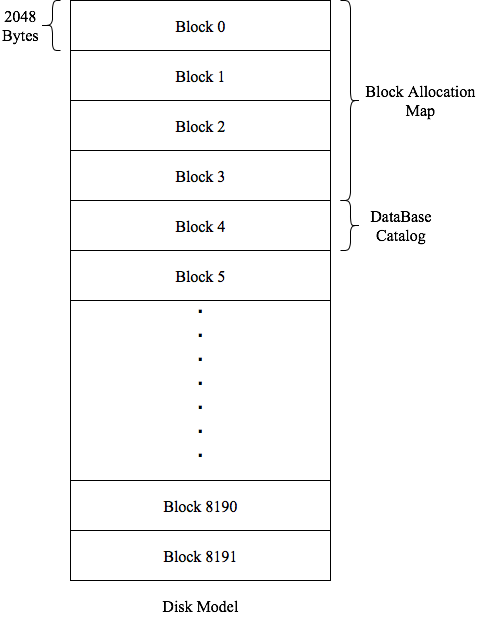
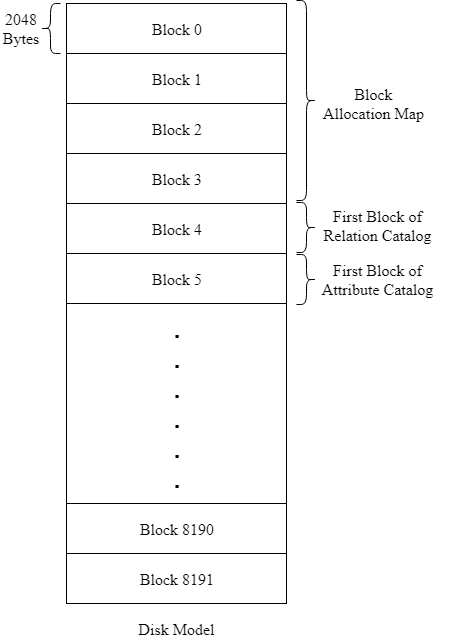
image change to new model

Changed region(s): [[0.0, 0.0, 0.9476, 1.0]]

diff --git a/storage-model1.html b/storage-model1.html
@@ -45,7 +45,7 @@
                 <h2>Disks Model</h2>
                 <p>Nitcbase assumes that disk is a sequence of blocks and a block is a sequence of bytes. The disk consists of 8192 blocks and a block is of 2048 bytes. Hence there is a total of 16MB of storage. Disk blocks are indexed from 0 to 8191. </p>
                 <p> Block# 0-3 are reserved for storing Block allocation map where as Block# 4 is for storing Database Catalog. Block allocation map tells us whether a particular block is free or occupied and requires one byte per each block. Hence a total of 8192/2048=4 blocks are required for Block allocation map. The following figure summarizes the disk structure. </p>
-                <center><img src="img/disk_model.png"></center>
+                <center><img src="img/disk_model1.png"></center>
                 
                 <p> Based on type of information stored in a block, a block can be of 5 types- 1. Record block, 2. Index block, 3.Database Catalog block, 4.Relation Catalog block, 5.Attribute catalog block.</p>
             </div>
@@ -54,7 +54,7 @@
                 <h2>Record block structure</h2>
                 <p> A database in Nitcbase is a collection of relations, and each relation is a collection of records.  The DBMS must store relations in the disk and the strategy is to store each relation in a set of blocks in the disk, organized as a linked list. Each block in such a linked list will be called a record block and is designed to store a fixed number of records.  The block will also contains some meta data like indices of the left and right blocks in the linked list.  Nitcbase fixes the size of a record as 256 bytes. </p>
                 <p>A record block stores the actual data records. The record block is divided into slots of size 256 Bytes each. Each slot stores a single record. Each block can have a maximum of 7 slots/records. In addition to data records, each block also stores meta data in preamble/header which occupies the first 256 Bytes of the record block.</p>
-                <center><img src="img/record_block.png"></center>
+                <center><img src="img/record_block1.png"></center>
                 <p>First four bytes(0-3) of header are used to identify the type of block(REC/IND/DBCAT/RELCAT/ATTRCAT) where REC represents a record block. Next four bytes(4-7) are used for storing parent block pointer which has no significance for a record block and can be set to -1. Byte# 8-11 and 12-15 are used for storing Left and right block numbers respectively. Next four bytes are used for storing number of records currently stored in the block whose value can range from 0 to 7. Bytes 20-31 are reserved for future use.</p>
                 <p> Slotmap is used for knowing whether a slot is occupied or free. It is of 7 bytes, one for each slot. If a slot is free, its corresponding entry in slotmap will be 0 else it will be 1. Slotmap occupies 32-38 bytes of the header. Note that the number of non-zero entries in the slotmap must match with the value in the #Entries field.  
                 Rest of the bytes in the header i.e., 39-255 are unallocated.</p>
